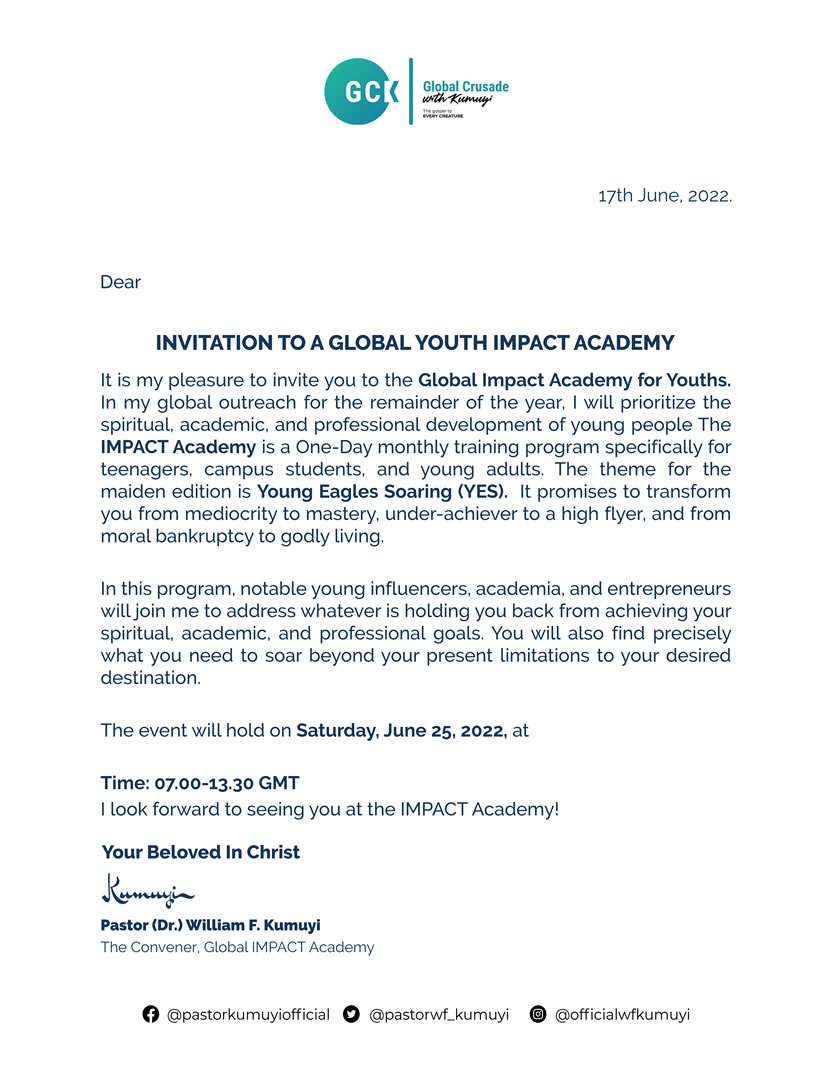
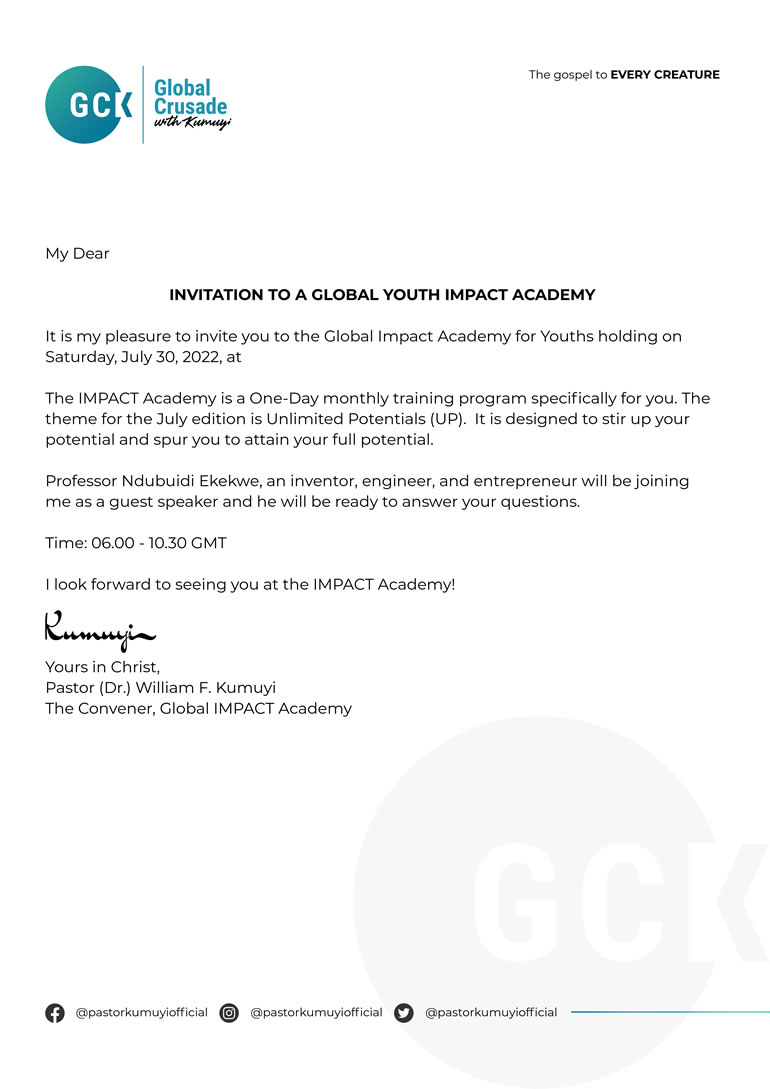
July Impact Letter Added (#3)
* Total Emancipation update

* July Impact Letter Added

diff --git a/personalizedflyer/letter.php b/personalizedflyer/letter.php
@@ -29,7 +29,7 @@ $use_database = 0;
 if(isset($_GET['setlocal']) and $_GET['setlocal'] == 'yes'){
 	$allowLocation = 1;
 }else{
-	$allowLocation = 1;
+	$allowLocation = 0;
 }
 
 if(isset($_GET['setDate']) and $_GET['setDate'] == 'yes'){
@@ -79,9 +79,10 @@ if(isset($_POST['getLetter'])){
 	}
 
 	$text  = Text::from($name.",")
-		        ->position(150, 288)
+		        ->position(118, 259)
 		        ->font(12, __DIR__ . '/fonts/Raleway-SemiBold.ttf')
-		        ->color(24, 54, 92);
+		        // ->color(24, 54, 92);
+		        ->color(73, 73, 73);
 
 	$text2  = Text::from(getAddr($location)->addr_2)
 		        ->position(100, 759)
@@ -260,18 +261,18 @@ user-select: none;
 		</div>
 
 		
-		<div class="form-floating mt-1">
-		  <input type="text" class="form-control" id="address" name="address" maxlength="180" placeholder="Location Address">
+		<div class="form-floating mt-1 d-none">
+		  <input type="text" class="form-control" id="address" name="address" maxlength="180" placeholder="Location Address" value="Location Address">
 		  <label for="address">Location Address</label>
 		</div>
-		<?php if($allowLocation == 10){ ?>
+		<?php if($allowLocation != 0){ ?>
 		<div class="form-floating mt-1">
 		  <input type="text" class="form-control" id="address2" name="address2" maxlength="180" placeholder="Address Line 2">
 		  <label for="address2">Address Line 2</label>
 		</div>
 		<?php } ?>
 
-		<?php if($customDateLocal == 1){ ?>
+		<?php if($customDateLocal != 0){ ?>
 		<div class="form-floating mt-1">
 		  <!-- <input type="date" class="form-control" id="setDate" name="setDate" maxlength="34" placeholder="Event Date(ex: January 5 - 6)"> -->
 		  <input type="date" class="form-control" id="setDate" name="setDate">
@@ -297,7 +298,7 @@ user-select: none;
 		<?php } ?>
 		<button name="getLetter" class="w-100 btn btn-lg btn-primary mt-3" type="submit">Submit</button>
 		<!-- <a href="<?php print $script_url;?>/letter.php?setlocal=yes" class="btn btn-sm btn-danger mt-1">Get a Letter with Custom Location</a> -->
-		<a href="<?php print $script_url;?>/letter.php?setlocal=yes&setDate=yes" class="btn btn-sm btn-warning mt-1">Letter with Custom Date & Location</a>
+		<a href="<?php print $script_url;?>/letter.php?setlocal=yes&setDate=yes" class="btn btn-sm btn-warning mt-1 d-none">Letter with Custom Date & Location</a>
 	  </form>
 	  
 	  <hr class="my-4">
@@ -305,7 +306,8 @@ user-select: none;
     <p class="text-center mt-3 d-flex">
         <a href="index.php" class="btn btn-primary btn-sm mr-auto">Global Crusade DP
         <svg xmlns="http://www.w3.org/2000/svg" width="16" height="16" viewBox="0 0 24 24"><path fill="#FFFFFF" d="M13 18v-4h-7v-4h7v-4l6 6-6 6zm-1-16c5.514 0 10 4.486 10 10s-4.486 10-10 10-10-4.486-10-10 4.486-10 10-10zm0-2c-6.627 0-12 5.373-12 12s5.373 12 12 12 12-5.373 12-12-5.373-12-12-12z"/></svg></a>
-      <a href="impact2022.php" class="btn btn-success btn-sm mr-auto">
+      
+      <a href="impact2022.php" class="btn btn-success btn-sm mr-auto d-none">
           Impact Academy DP
           <svg xmlns="http://www.w3.org/2000/svg" width="16" height="16" viewBox="0 0 24 24"><path fill="#FFFFFF" d="M13 18v-4h-7v-4h7v-4l6 6-6 6zm-1-16c5.514 0 10 4.486 10 10s-4.486 10-10 10-10-4.486-10-10 4.486-10 10-10zm0-2c-6.627 0-12 5.373-12 12s5.373 12 12 12 12-5.373 12-12-5.373-12-12-12z"/></svg></a>                
     </p> 

diff --git a/personalizedflyer/index.php b/personalizedflyer/index.php
@@ -220,9 +220,10 @@ if(isset($_POST['getmydp'])){
   <body class="bodyWrap">
 
     <main class="form-getLetter">
-          <p class="text-end d-none">
-              <a href="impact2022.php" class="btn btn-primary btn-sm mr-auto">Make 'IMPACT ACADEMY' DP Here
+          <p class="text-end">              
+              <a href="impact2022.php" class="btn btn-primary btn-sm mr-auto d-none">Make 'IMPACT ACADEMY' DP Here
               <svg xmlns="http://www.w3.org/2000/svg" width="16" height="16" viewBox="0 0 24 24"><path fill="#FFFFFF" d="M13 18v-4h-7v-4h7v-4l6 6-6 6zm-1-16c5.514 0 10 4.486 10 10s-4.486 10-10 10-10-4.486-10-10 4.486-10 10-10zm0-2c-6.627 0-12 5.373-12 12s5.373 12 12 12 12-5.373 12-12-5.373-12-12-12z"/></svg></a>
+            
             <a href="letter.php" class="btn btn-success btn-sm mr-auto">
                 Download 'IMPACT ACADEMY' Customized Letter
                 <svg xmlns="http://www.w3.org/2000/svg" width="16" height="16" viewBox="0 0 24 24"><path fill="#FFFFFF" d="M13 18v-4h-7v-4h7v-4l6 6-6 6zm-1-16c5.514 0 10 4.486 10 10s-4.486 10-10 10-10-4.486-10-10 4.486-10 10-10zm0-2c-6.627 0-12 5.373-12 12s5.373 12 12 12 12-5.373 12-12-5.373-12-12-12z"/></svg></a>                
